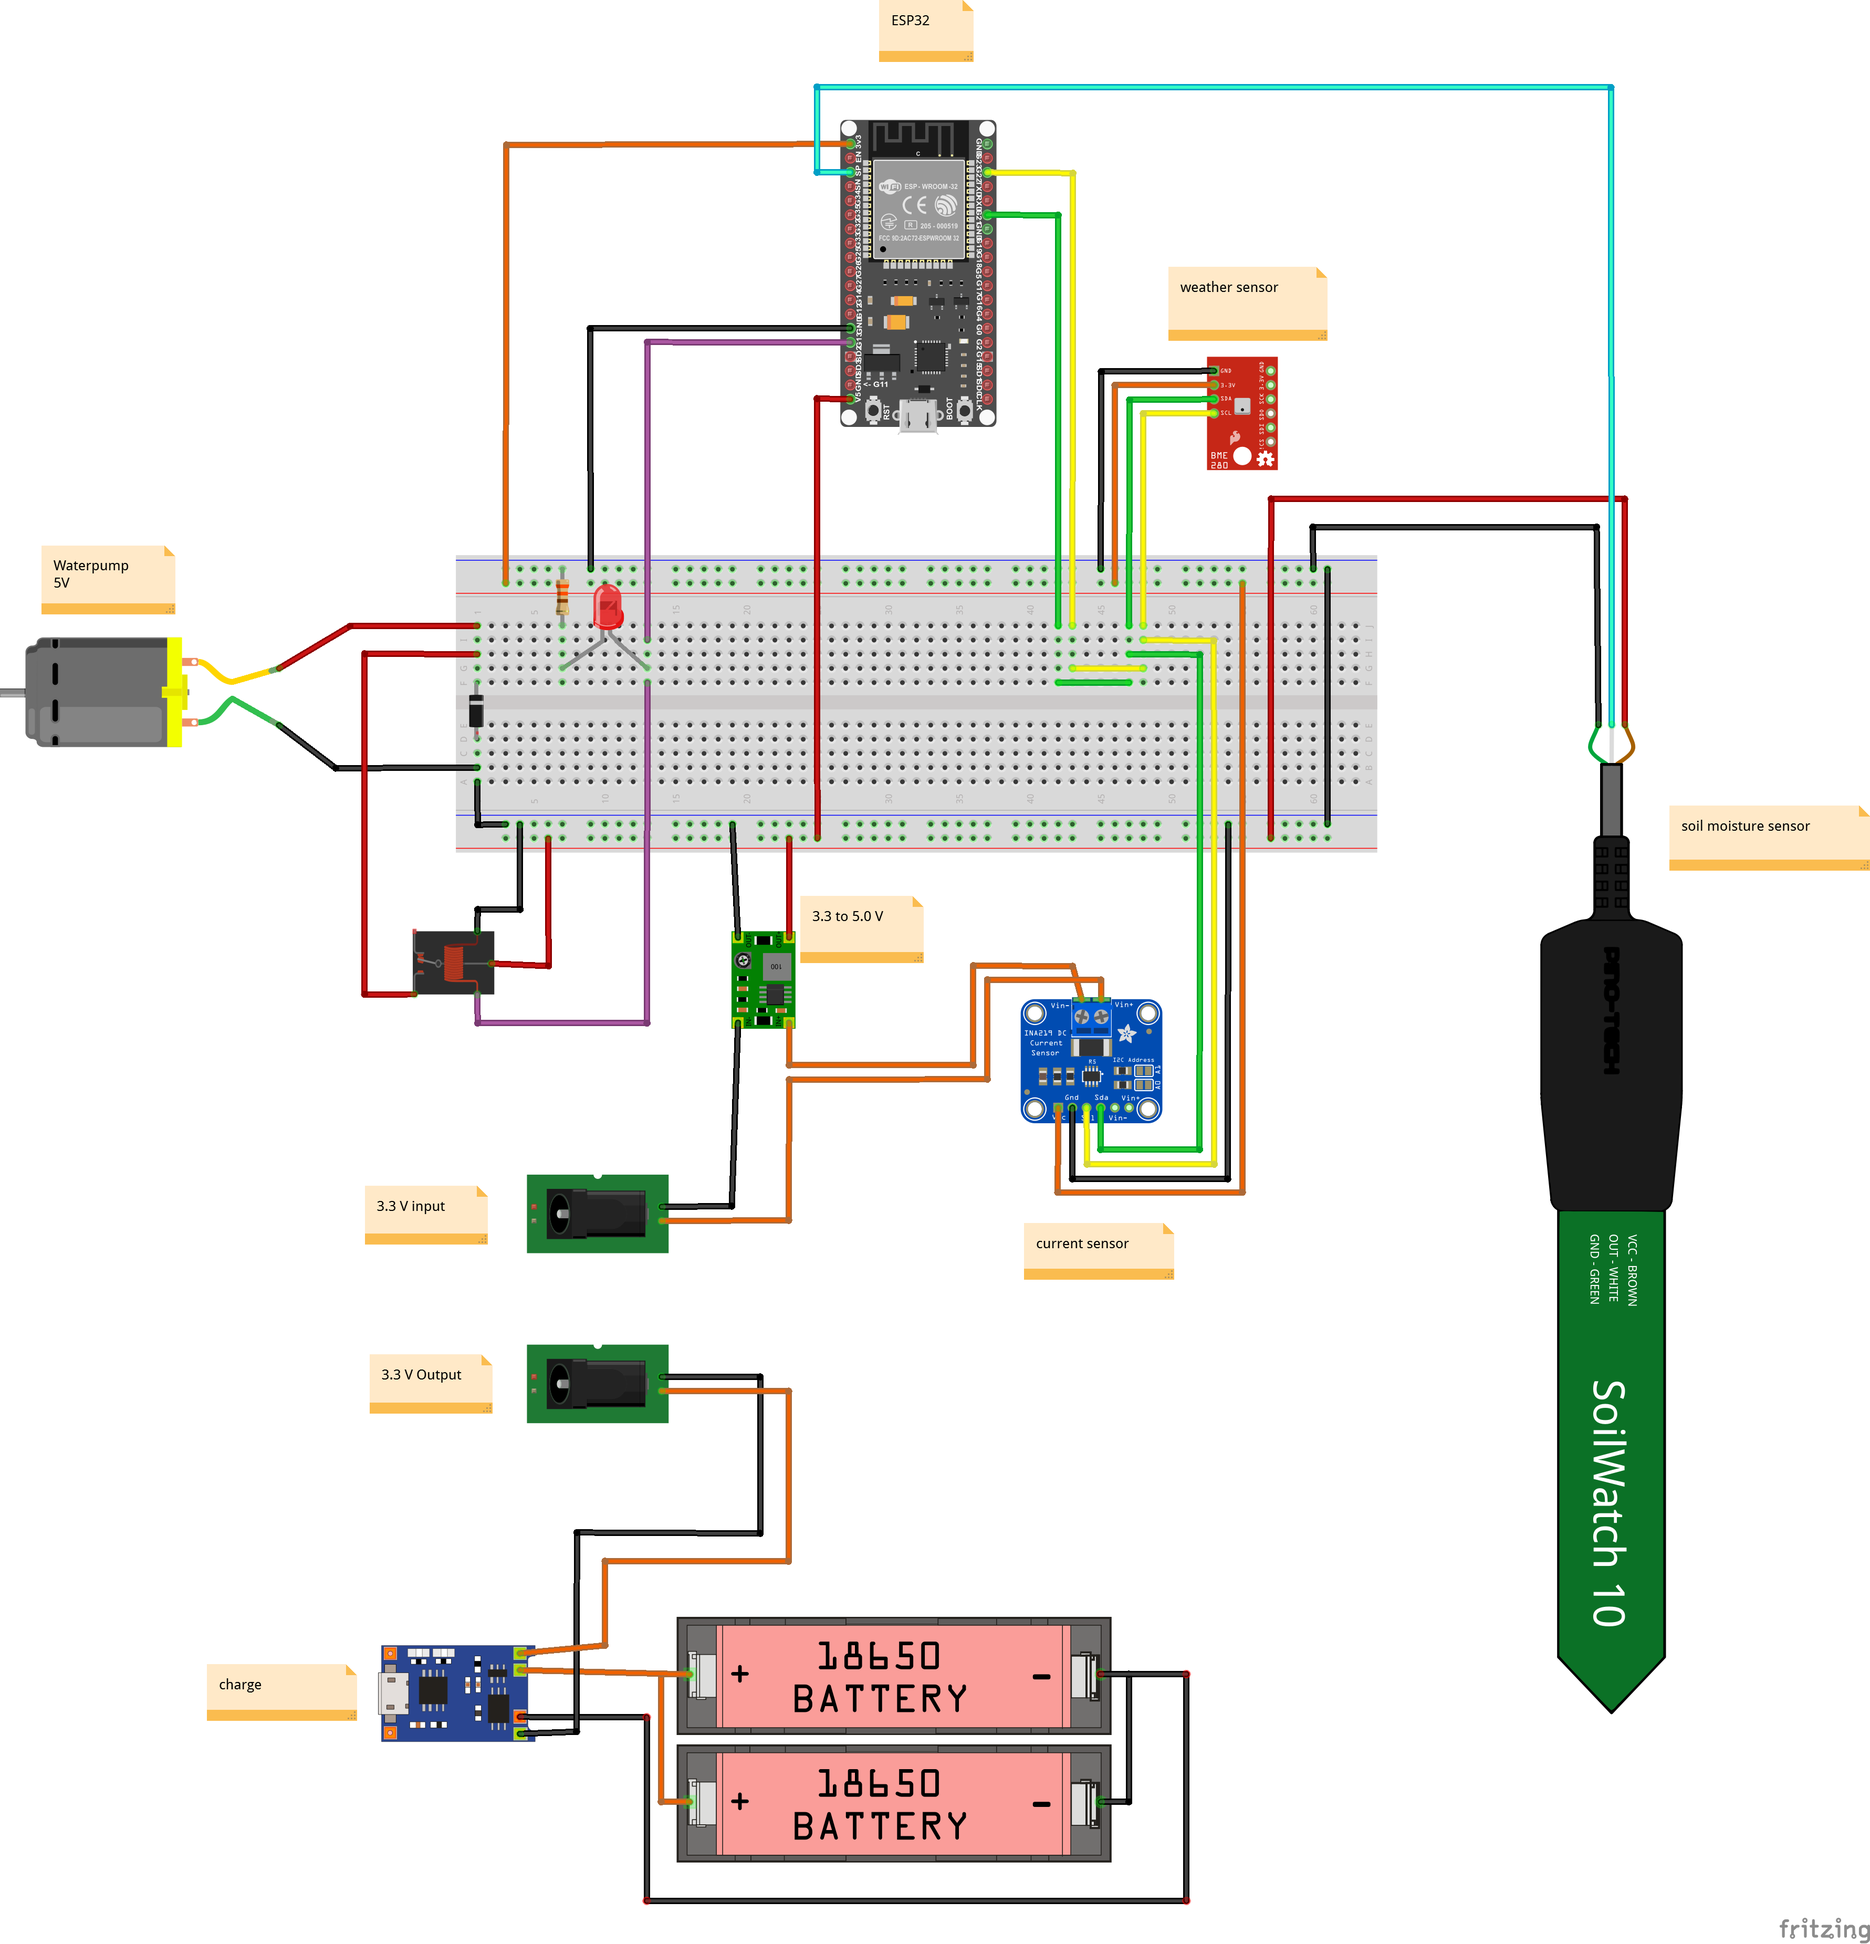
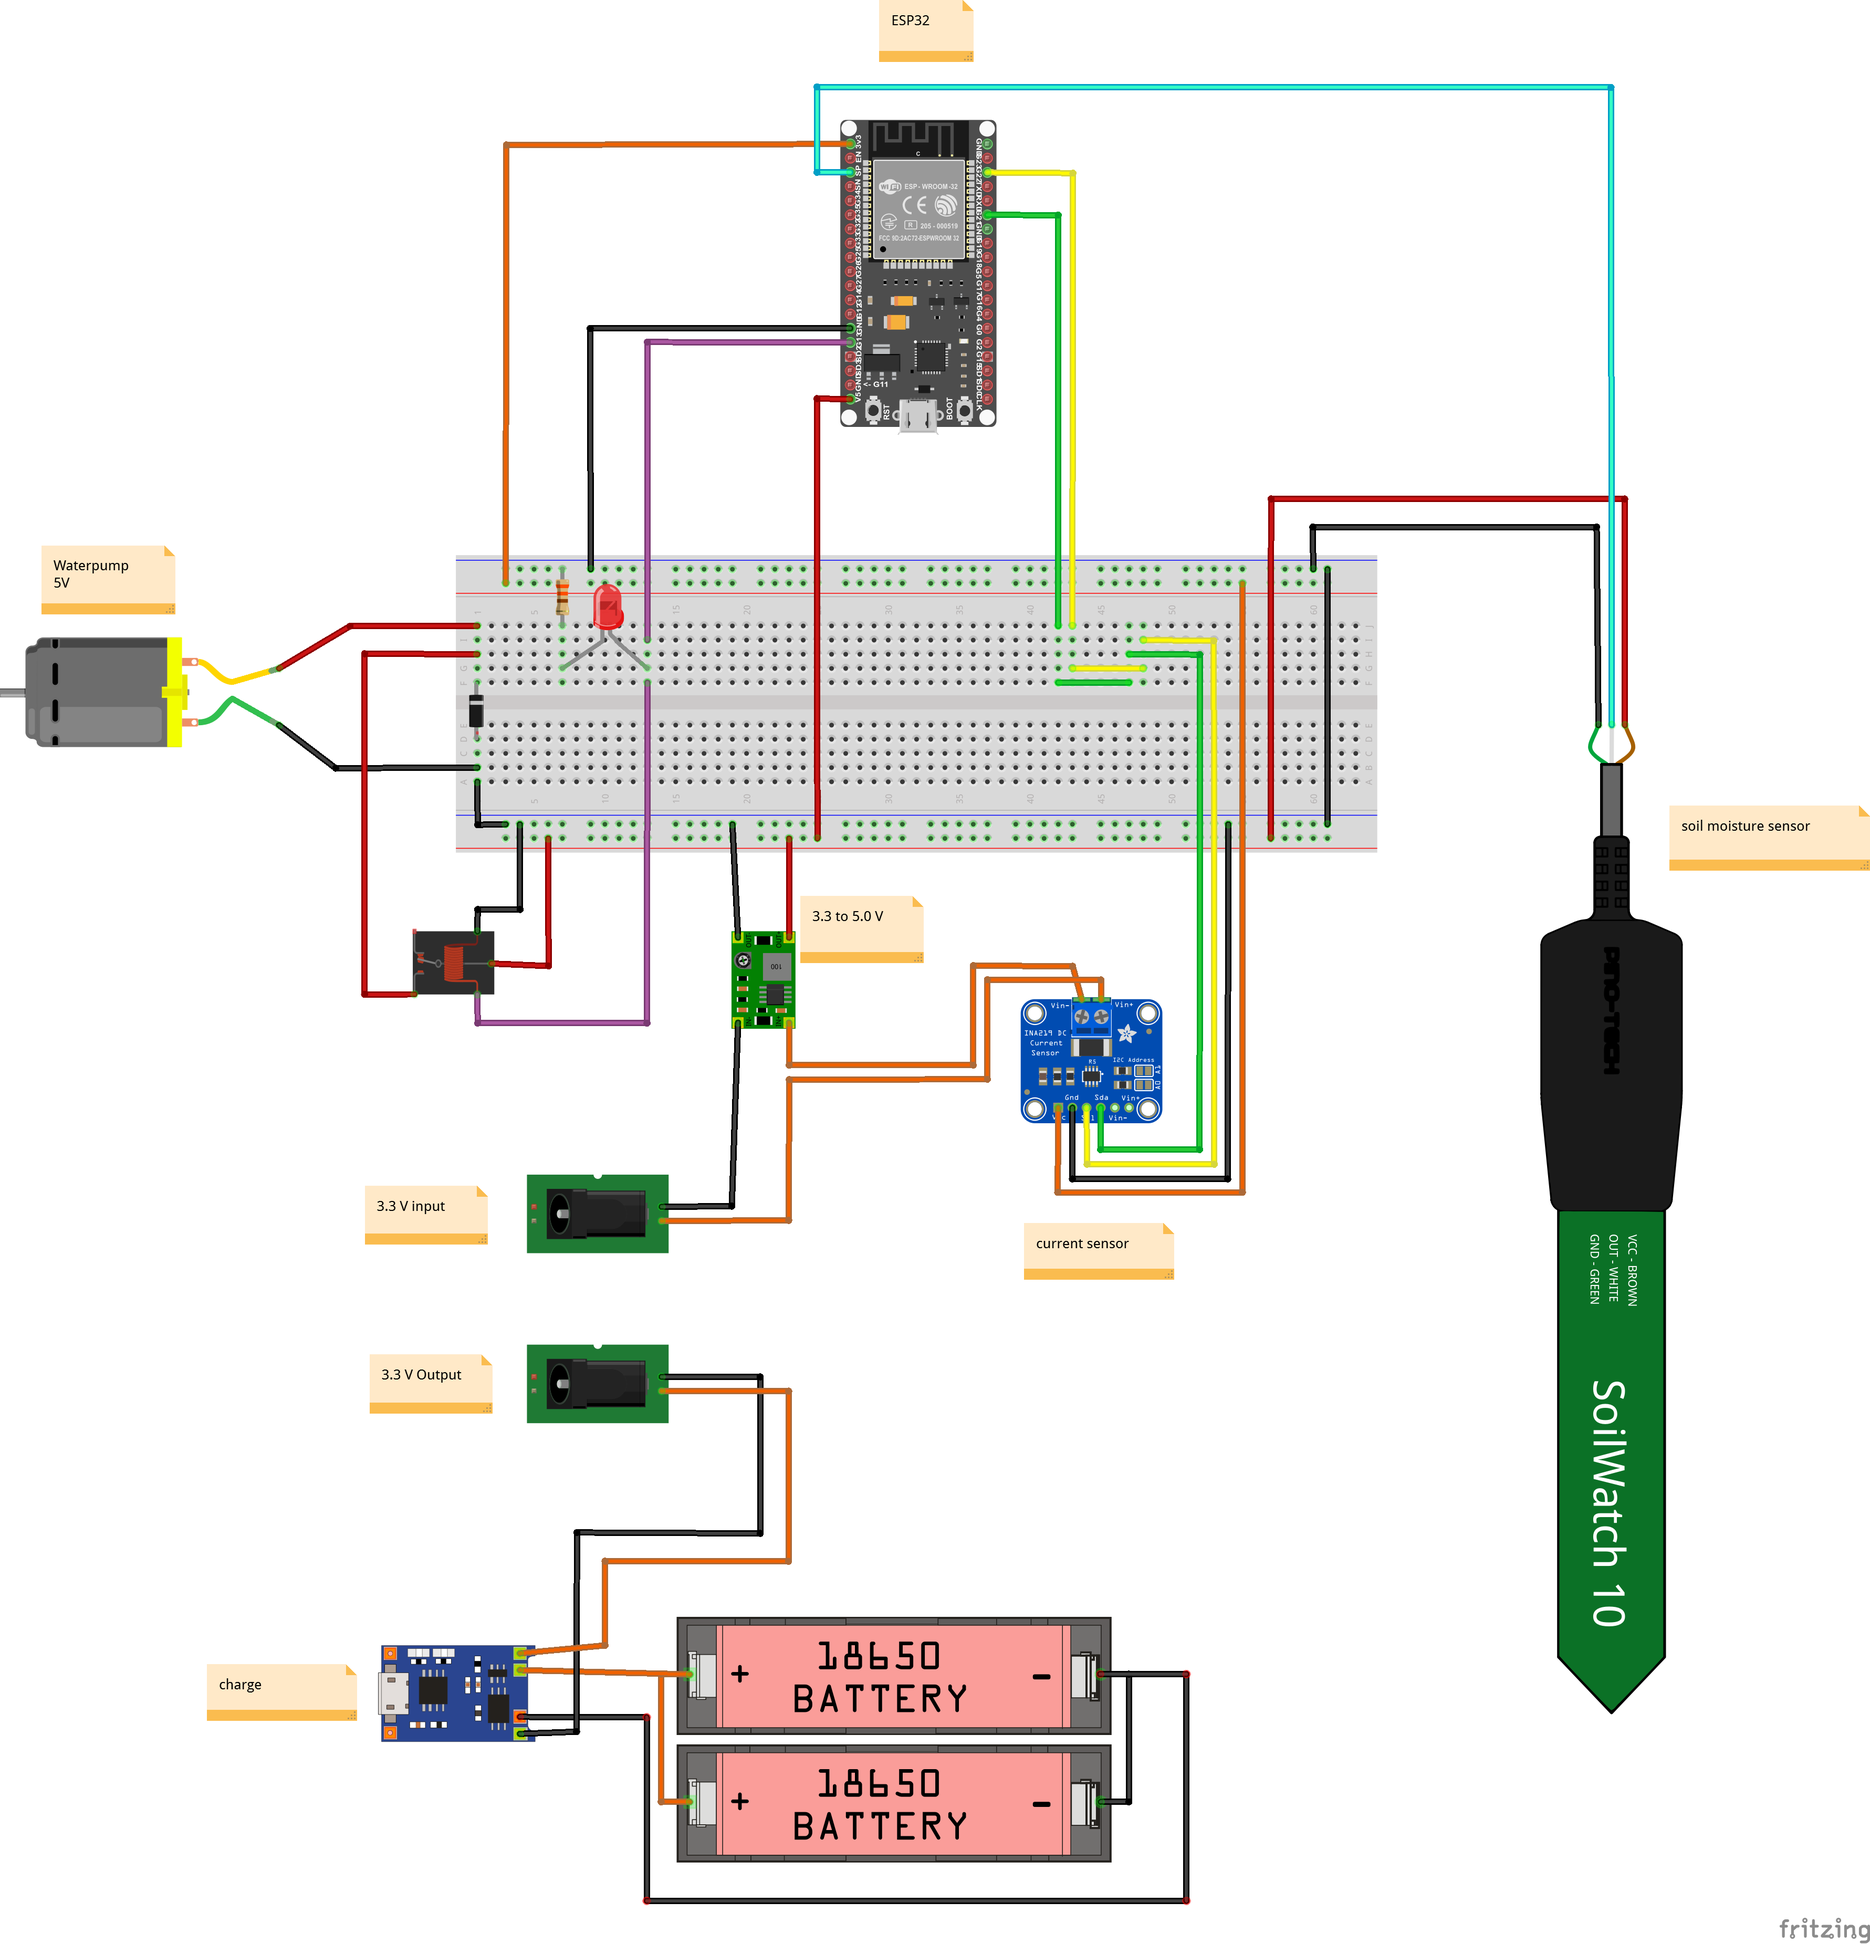
remove BME280 sensor

Changed region(s): [[0.5611, 0.1243, 0.7169, 0.3106]]

diff --git a/src/main.cpp b/src/main.cpp
@@ -3,7 +3,6 @@
 #include <ArduinoOTA.h>
 #include <AsyncMqttClient.h>
 #include <Adafruit_Sensor.h>
-#include <Adafruit_BME280.h>
 #include <Adafruit_INA219.h>
 #include <ArduinoJson.h>
 #include <SPIFFS.h>
@@ -23,7 +22,6 @@ TimerHandle_t mqttReconnectTimer;
 TimerHandle_t wifiReconnectTimer;
 TimerHandle_t waterpumpTimer;
 
-Adafruit_BME280 bme;
 Adafruit_INA219 ina219;
 
 // states
@@ -149,13 +147,6 @@ void sendInfo()
     network["wifiQuality"] = GetRssiAsQuality(rssi);
     network["wifiSsid"] = WiFi.SSID();
     network["ip"] = WiFi.localIP().toString();
-
-    // weather
-    JsonObject weather = doc.createNestedObject("weather");
-    weather["temperature"] = bme.readTemperature();
-    weather["humidity"] = bme.readHumidity();
-    weather["pressure"] = bme.readPressure() / 100.0F;            // in hPa
-    weather["altitude"] = bme.readAltitude(SEALEVELPRESSURE_HPA); // in m
 
     String JS;
     serializeJson(doc, JS);
@@ -356,24 +347,6 @@ void setupTimers()
     waterpumpTimer = xTimerCreate("waterpumpTimer", pdMS_TO_TICKS(1000), pdFALSE, (void *)2, reinterpret_cast<TimerCallbackFunction_t>(onWaterpumpTimerTriggered));
 }
 
-void setupBME280()
-{
-    if (!bme.begin(0x76))
-    {
-        Serial.println("Could not find a valid BME280 sensor, check wiring!");
-        /*while (1);*/
-
-        return;
-    }
-
-    // weather monitoring
-    bme.setSampling(Adafruit_BME280::MODE_FORCED,
-                    Adafruit_BME280::SAMPLING_X1, // temperature
-                    Adafruit_BME280::SAMPLING_X1, // pressure
-                    Adafruit_BME280::SAMPLING_X1, // humidity
-                    Adafruit_BME280::FILTER_OFF);
-}
-
 void setupOTA()
 {
     ArduinoOTA
@@ -472,7 +445,6 @@ void setup()
 
     setupPins();
     setupTimers();
-    setupBME280();
     setupIna219();
 
     WiFi.onEvent(onWiFiEvent);

diff --git a/README.md b/README.md
@@ -73,10 +73,7 @@ Topic: wateringsystem/`{device ID}`/out/`{command}`
 | network.wifiQuality | quality of signal strength (value between 0 and 100%)                 | number |
 | network.wifiSsid    | SSID of connected wifi                                                | string |
 | network.ip          | ip address of the module                                              | string |
-| weather.temperature | temperature of the BME280 sensore (in °C)                             | number |
-| weather.humidity    | humidity value of the BME280 sensor (in %)                            | number |
-| weather.pressure    | pressure of the BME280 sensor (in hPa )                               | number |
-| weather.altitude    | estimated altitude above sea level                                    | number |
+
 
 ## Sketch
 
